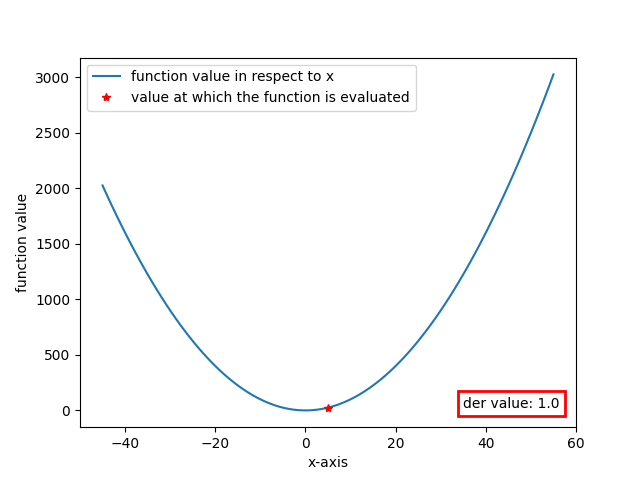
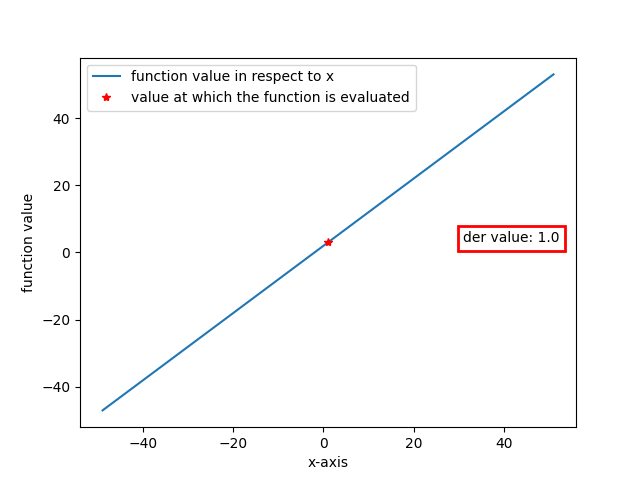
finished multi-graph viz

diff --git a/gitfighters/visualize.py b/gitfighters/visualize.py
@@ -1,6 +1,7 @@
 import matplotlib.pyplot as plt
 import numpy as np
 import os
+from datetime import datetime
 
 
 def visualize_1D(function, value, der, name="x"):
@@ -12,15 +13,10 @@ def visualize_1D(function, value, der, name="x"):
     value: value at which said function is evaluated
     """
 
-    # plot temperature curve
+    # plot function
     xs = np.linspace(value - 50, value + 50, 100)
     ys = function(xs)
     plt.plot(xs, ys)
-
-    # plot horizontal line
-    # xs = np.linspace(0,20,100)
-    # ys = np.full(100, 45)
-    # plt.plot(xs, ys, 'r')
 
     # plot the point at which the function is evaluated
     plt.plot(value, function(value), "r*")
@@ -49,15 +45,17 @@ def visualize_1D(function, value, der, name="x"):
         os.makedirs(os.path.dirname(filepath))
     plt.savefig(f"graphs/{name}_graph.png")
     print(f"graph saved as graphs/{graph_name}_graph.png")
+
+    # clear graph
+    plt.clf()
     return "{graph_name}_graph"
 
 
 def visualize(function, variables, derivatives):
     """visualizes the automatic differentiation process
-
     INPUTS
     =======
-    function: a callable python function
+    function: a mathematical python function in string format
     variables: dictionary with
         keys: variable names
         values: variable values
@@ -67,8 +65,7 @@ def visualize(function, variables, derivatives):
     RETURNS
     =======
     """
-
-    # AWAITING CLI TO DECIDE ON HOW TO DO THIS
+    # PSEUDOCODE
     # 1. for each variable
     # 2. assume all other variables become constants
     # 3. modify function accordingly
@@ -77,7 +74,20 @@ def visualize(function, variables, derivatives):
     i = 0
     graph_names = []
     for variable, value in variables.items():
-        graph_names.append(visualize_1D(function, value, derivatives[i], name=variable))
+        
+        mod_function = function
+        for variable2, value2 in variables.items():
+            if variable2 != variable:
+                mod_function = mod_function.replace(variable2, str(value2))
+        
+        mod_function = f"""
+def f({variable}):
+    return {mod_function}
+"""
+        exec(mod_function, globals())
+
+        graph = visualize_1D(f, value, derivatives[variable], name=variable)
+        graph_names.append(graph)
         i += 1
         
     return graph_names

diff --git a/cli.py b/cli.py
@@ -10,23 +10,23 @@ from gitfighters.visualize import *
 
 
 def main():
-    prompt = "Please provide a function and corresponding point(s) at which to evaluate it. \n\
-EXAMPLE:   'x^2 - e^(y-1) when x=2 and y=5'\n"
-    user_input = input(prompt)
-
-    # STEPS TO DO
-
+    """
+    This function acts as a command line interface. User enters a function and position(s)
+    they want to evaluate it at. Then:
+    
+    Then we do the following steps:
     # 1. Separate into equation string and variables string
     # 2. Clean equation and turn into python ready code (e.g. substitute ^ with **)
     # 3. Determine how many variables and what value each of these variables has
     # 4. Create a fightingAD object for each variable
-    # 5. execute: ('f = {}'.format(clean_equation))
+    # 5. use python exec() 
     # 6. print values, derivatives
+    # 7. optionally output LaTeX, graphs
+    """
 
-    # vis_bool = input("Do you want to give a seed? Y/n")
-    # if vis_bool == "Y":
-    #     # VISUALIZE FUNCTION
-    #     pass
+    prompt = "Please provide a function and corresponding point(s) at which to evaluate it. \n\
+EXAMPLE:   'x^2 - e^(y-1) when x=2 and y=5'\n"
+    user_input = input(prompt)
 
     graph_names = ""
     eq, vals = pipeline(user_input)
@@ -47,16 +47,17 @@ EXAMPLE:   'x^2 - e^(y-1) when x=2 and y=5'\n"
     vis_bool = input(
         "    -->Would you like visualize your function and its derivative? Y/n \n"
     )
-    if vis_bool == "Y":
+    if vis_bool == "Y" or vis_bool == "y":
+        derivatives_dict = {key:derivatives[i] for i, key in enumerate(vals)}
         print(eq)
         print(vals)
-        print(derivatives)
-        graph_names = visualize(eq, vals, derivatives)
+        print(derivatives_dict)
+        graph_names = visualize(eq, vals, derivatives_dict)
 
     latex_bool = input(
         "    -->Would you like to output a nicely formatted latex file? Y/n \n"
     )
-    if latex_bool == "Y":
+    if latex_bool == "Y" or latex_bool == "y":
         create_latex_file(derivatives, graph_names, user_input)
 
 

diff --git a/gitfighters/latex.py b/gitfighters/latex.py
@@ -1,8 +1,8 @@
 #!/usr/bin/env python3
 
 from datetime import datetime
-from git_fighters import *
-from vector import *
+from gitfighters.git_fighters import *
+from gitfighters.vector import *
 import numpy as np
 
 def create_latex_file(der, graph_names = "", user_input = ""):
